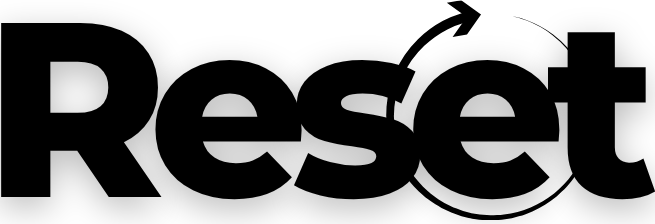
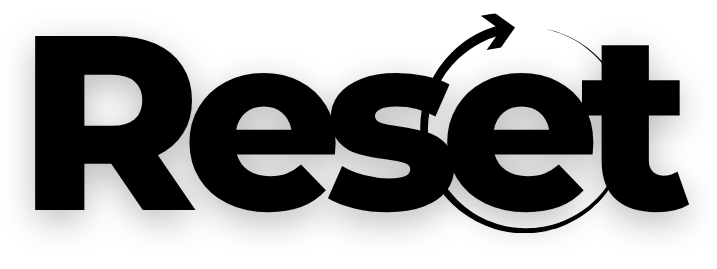
ajout image

diff --git a/CSS/img.css b/CSS/img.css
@@ -1,0 +1,19 @@
+
+img {
+  max-width: 100%;
+  height: auto;
+}
+
+#hero img {
+  width: 80%;
+  height: auto;
+}
+
+#méthode img {
+  margin-top: 10px;
+  width: max(10%, 40px);
+  height: auto;
+}
+#méthode h3 {
+  margin-top: -10px;
+}

diff --git a/index.html b/index.html
@@ -13,7 +13,7 @@
     <link rel="stylesheet" href="CSS/faq.css">
     <link rel="stylesheet" href="CSS/lists.css">
     <link rel="stylesheet" href="CSS/pillar-group.css">
-    <link rel="stylesheet" href="CSS/logo.css">
+    <link rel="stylesheet" href="CSS/img.css">
     <link rel="stylesheet" href="CSS/textbox.css">
     <link rel="stylesheet" href="CSS/testimonials.css">
 </head>
@@ -29,7 +29,7 @@
     </nav>
 
     <section id="hero">
-        <img src="PNG/Titre_Reset.png" alt="Logo RESET" class="hero-logo">
+        <img src="PNG/Titre_reset.png" alt="Logo RESET" class="hero-logo">
         <p>l’écosystème de la perte de poids</p>
     </section>
 
@@ -154,16 +154,15 @@
     </section>
 
     <section id="méthode">
-        <img src="https://placehold.co/100x100" alt="">
         <h2>La méthode des 3P</h2>
         <p>Un système durable pour transformer l’intention en action. Voici ma stratégie :</p>
-        <img src="https://placehold.co/100x100" alt="">
+        <img src="PNG/Temps.png" alt="">
         <h3>PATIENCE</h3>
         <p>La perte de poids aime le temps. L’accompagnement dure 90 jours pour permettre une adaptation aux nouvelles habitudes, et une progression mesurable sans frustration.</p>
-        <img src="https://placehold.co/100x100" alt="">
+        <img src="PNG/Perseverance.png" alt="">
         <h3>PERSÉVÉRANCE</h3>
         <p>Les écosystèmes gagnent toujours sur la motivation. Mise en place de routines, suivi hebdomadaire et boucles de feedback constantes.</p>
-        <img src="https://placehold.co/100x100" alt="">
+        <img src="PNG/Plaisir.png" alt="">
         <h3>PLAISIR</h3>
         <p>L’adhérence à long terme vient du plaisir. Aimer ses assiettes, manger avec gourmandise, profiter de sa famille et de ses amis, faire un sport par plaisir et les résultats viendront naturellement.</p>
     </section>
@@ -208,19 +207,19 @@
         <div class="features-grid-2">
             <article class="feature-card">
                 <img src="PNG/Avant_Apres_1.png" alt="">
-                <p>Laya, 26 ans<br>-4kg en 1 mois</p>
+                <p>Laya, 26 ans<br><strong>-4kg en 1 mois</strong></p>
             </article>
             <article class="feature-card">
                 <img src="PNG/Avant_Apres_2.png" alt="">
-                <p>Marine, 37 ans<br>-5kg en 3 mois</p>
+                <p>Marine, 37 ans<br><strong>-5kg en 3 mois</strong></p>
             </article>
             <article class="feature-card">
                 <img src="PNG/Avant_Apres_3.png" alt="">
-                <p>Sophie, 36 ans<br>-5kg en 4 mois</p>
+                <p>Sophie, 36 ans<br><strong>-5kg en 4 mois</strong></p>
             </article>
             <article class="feature-card">
                 <img src="PNG/Avant_Apres_4.png" alt="">
-                <p>Dorissa, 29 ans<br>-7kg en 3 mois</p>
+                <p>Dorissa, 29 ans<br><strong>-7kg en 3 mois</strong></p>
             </article>
         </div>
     </section>

diff --git a/CSS/base.css b/CSS/base.css
@@ -57,5 +57,7 @@ strong {
 }
 
 #hero p {
-    margin: 0;
+    margin-top: -20px;
+    margin-bottom: 0;
+    font-size: clamp(1.1rem, 1.8vw + 0.8rem, 2rem);
 }

diff --git a/CSS/cards.css b/CSS/cards.css
@@ -58,8 +58,7 @@
 }
 
 .feature-card p {
-    font-size: 1rem;
-    margin: 0;
+    margin-bottom: -20px;
     line-height: 1.4;
     text-align: center;
 }

diff --git a/JS/main.js b/JS/main.js
@@ -31,7 +31,7 @@ document.addEventListener('DOMContentLoaded', function() {
                 paragraphs[1].textContent = `${base_time} ${currentTime}`;
 
                 textBox.classList.remove('fade-out');
-            }, 1000); // Corresponds to the transition duration
+            }, 2000); // Corresponds to the transition duration
         }
     }
     